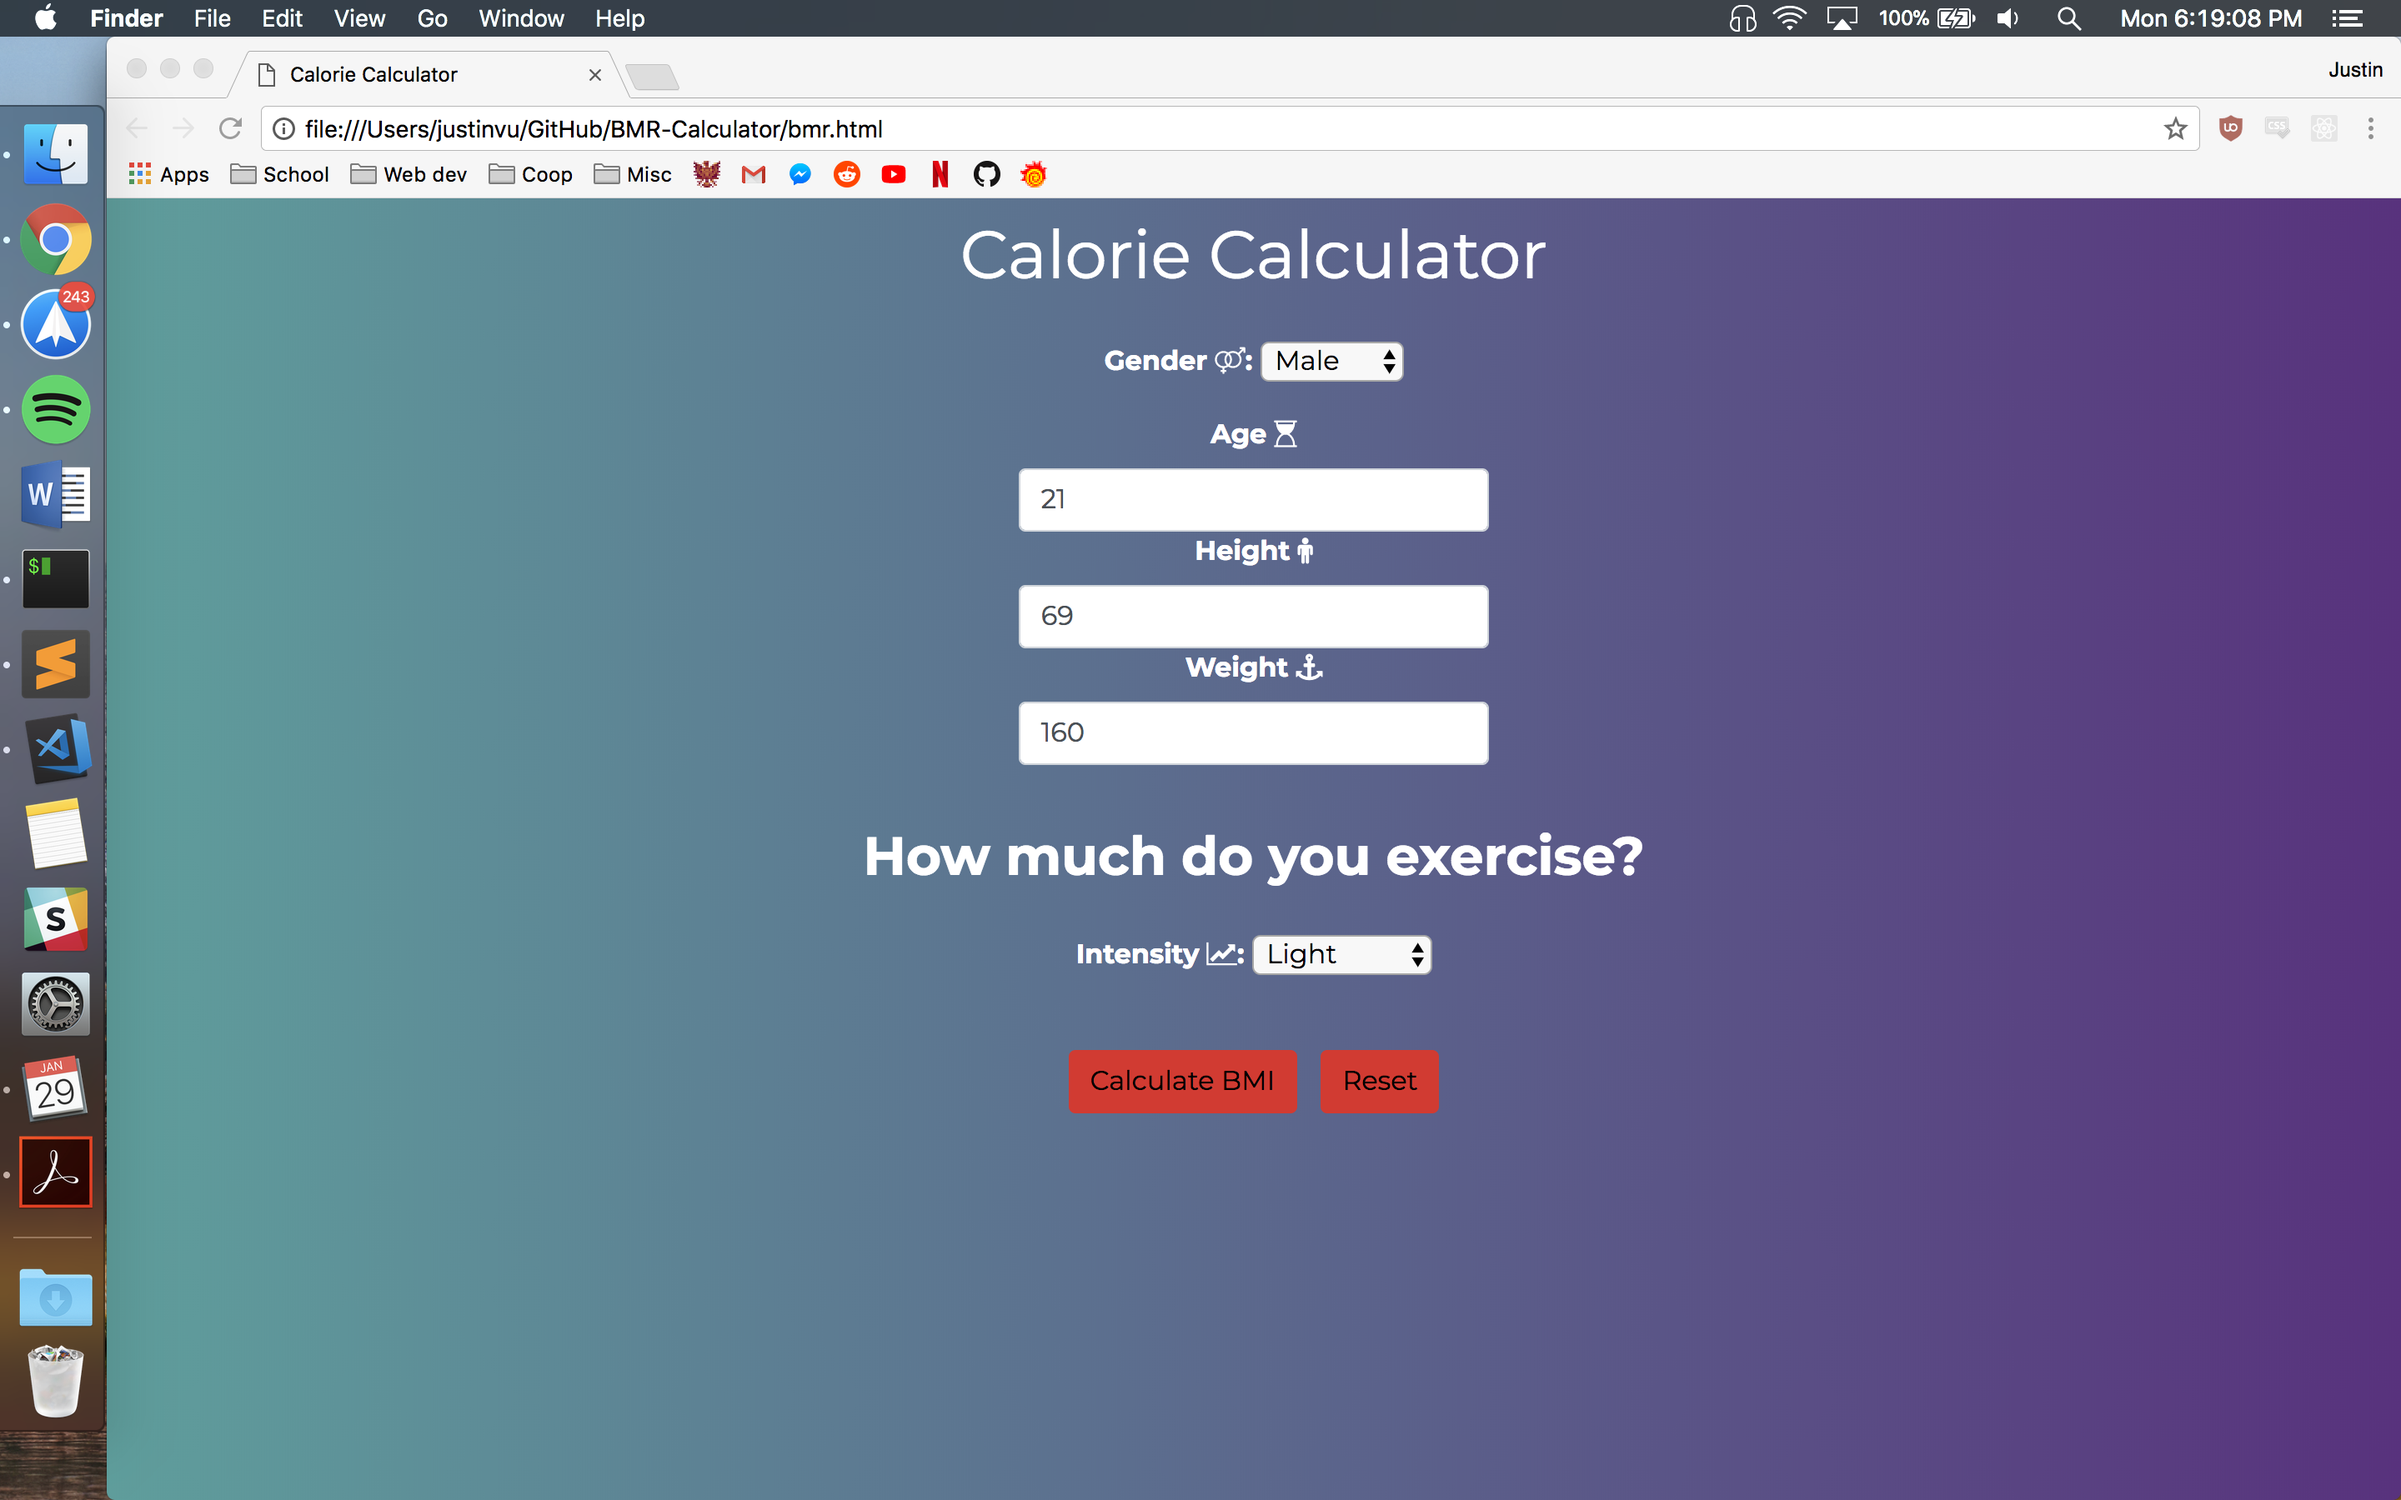
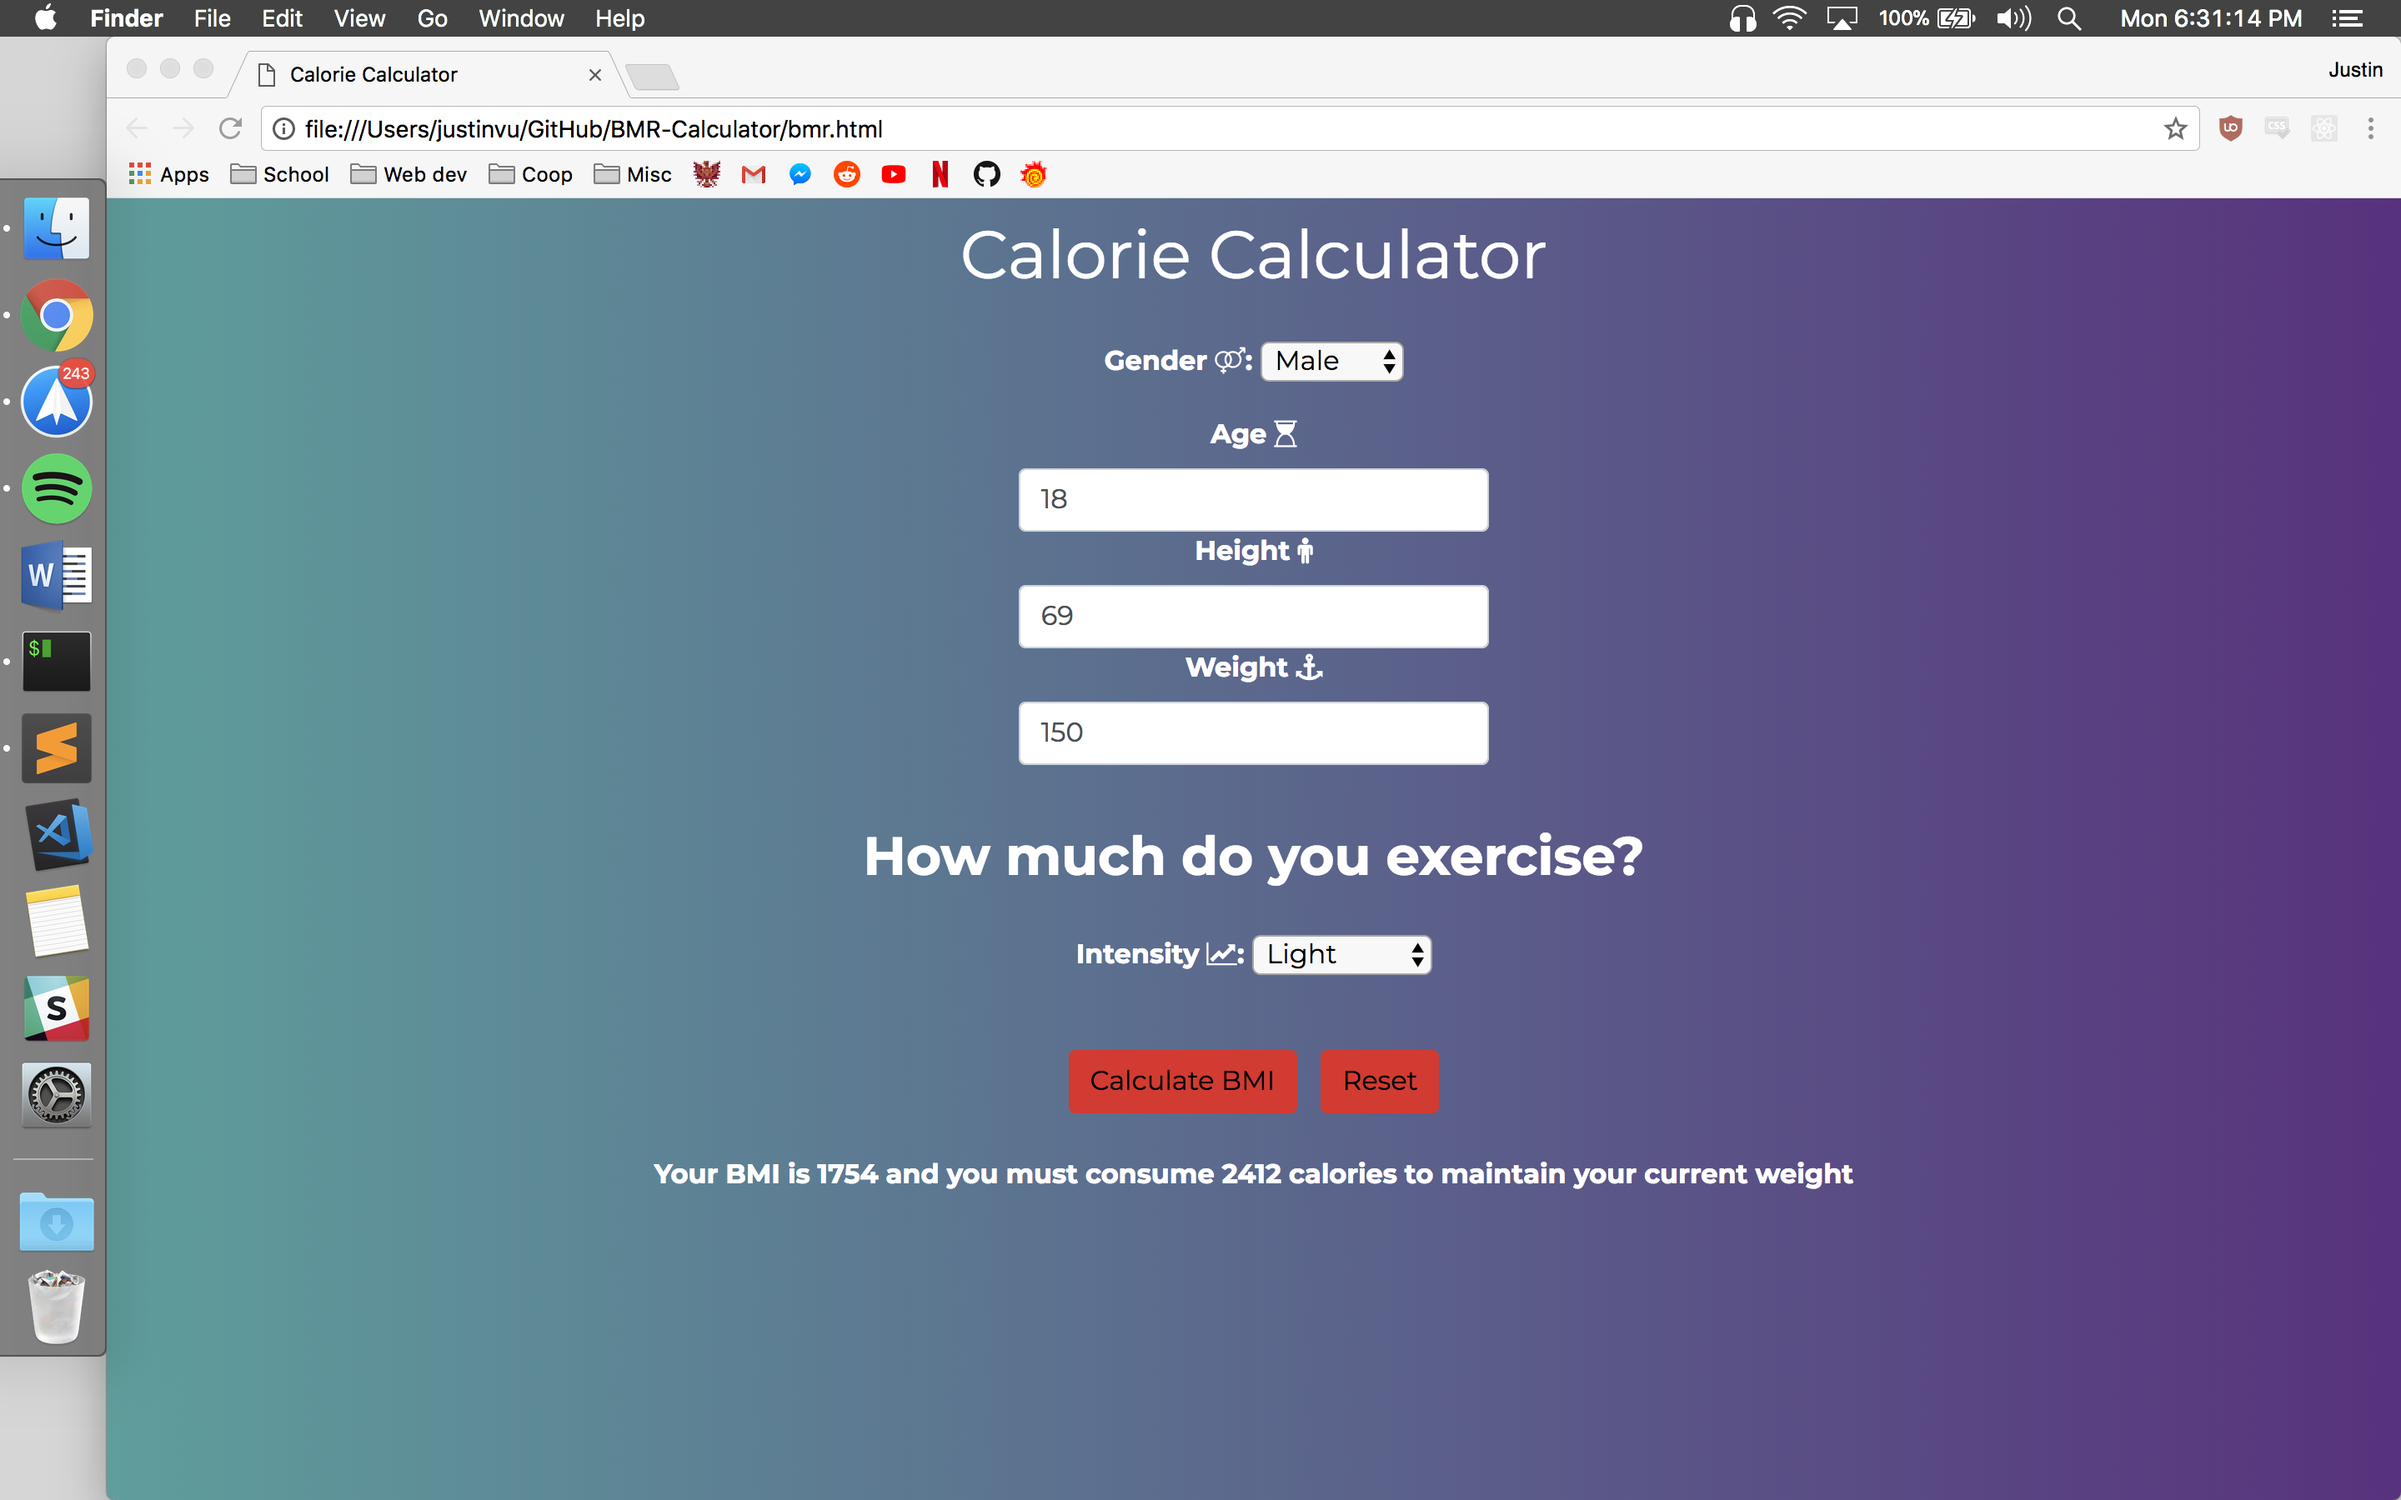
added rounding to bmr

Changed region(s): [[0.0, 0.0, 0.0625, 1.0], [0.2812, 0.7778, 0.7812, 0.8089], [0.9062, 0.0, 0.9375, 0.0311]]

diff --git a/bmr.js b/bmr.js
@@ -50,7 +50,7 @@ calculate.addEventListener("click", function(){
 	console.log(gender);
 	
 	if (gender==0){
-		var bmr = bmrMen(weight,height,age);
+		var bmr = Math.round(bmrMen(weight,height,age));
 		var activity = Math.round(calories(bmr,activityLevel));
 		daily.textContent = "Your BMI is " + bmr + " and you must consume " + activity + " calories to maintain your current weight"
 
@@ -58,7 +58,7 @@ calculate.addEventListener("click", function(){
 	}
 
 	else if (gender==1){
-		var bmr = bmrWomen(weight,height,age);
+		var bmr = Math.round(bmrWomen(weight,height,age));
 		var activity = Math.round(calories(bmr,activityLevel));
 		
 		if (height<64){
